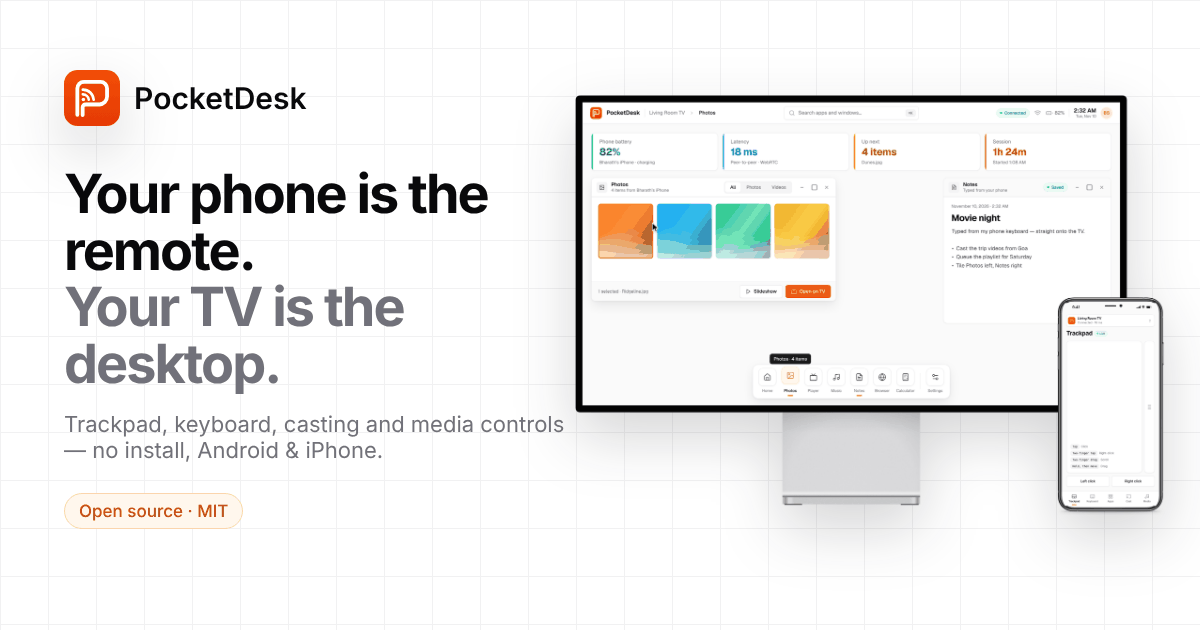
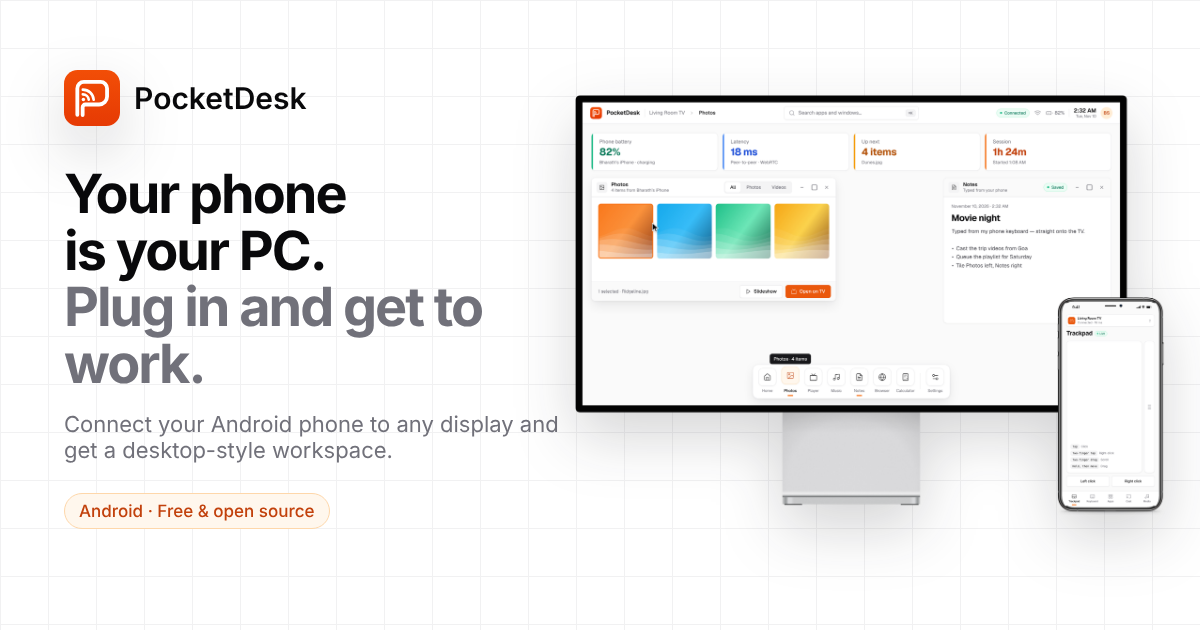
Reposition: turn your phone into a PC

diff --git a/public/index.html b/public/index.html
@@ -3,11 +3,11 @@
 <head>
 <meta charset="utf-8">
 <meta name="viewport" content="width=device-width, initial-scale=1">
-<title>PocketDesk — your phone is the remote, your TV is the desktop</title>
-<meta name="description" content="PocketDesk turns any TV with a web browser into a desktop you drive from your phone — trackpad, keyboard, casting and media controls. Open source, no install.">
+<title>PocketDesk — turn your phone into a PC</title>
+<meta name="description" content="PocketDesk turns your Android phone into a desktop-style workspace. Connect it to any monitor or TV and start working, with your phone as the trackpad and keyboard. Free and open source.">
 <meta name="theme-color" content="#ffffff">
-<meta property="og:title" content="PocketDesk — your phone is the remote, your TV is the desktop">
-<meta property="og:description" content="Turn any TV into a desktop you drive from your phone. Open source, no install, Android & iPhone.">
+<meta property="og:title" content="PocketDesk — turn your phone into a PC">
+<meta property="og:description" content="Plug your Android phone into any display and get a desktop-style workspace. Free APK, open source.">
 <meta property="og:image" content="https://getpocketdesk.vercel.app/assets/og.png">
 <meta property="og:url" content="https://getpocketdesk.vercel.app/">
 <meta name="twitter:image" content="https://getpocketdesk.vercel.app/assets/og.png">
@@ -75,6 +75,9 @@
   details[open] summary::after { content: "–"; }
   details p { color: var(--muted-fg); margin: 10px 0 0; }
   .faq { max-width: 760px; margin-top: 32px; }
+  .wl { display: flex; align-items: center; justify-content: space-between; gap: 24px; flex-wrap: wrap; }
+  .wl h2 { margin-bottom: 8px; }
+  .wl .lede { font-size: 16px; }
   .cta-band { text-align: center; }
   .cta-band .card { padding: 48px 24px; }
   code { font: 500 14px "Geist Mono", ui-monospace, monospace; background: var(--muted); border: 1px solid var(--border); border-radius: 6px; padding: 2px 7px; }
@@ -87,40 +90,40 @@
 <nav class="top">
   <div class="wrap">
     <a class="brand" href="/"><img class="logo-img" src="icon.svg" width="34" height="34" alt="">PocketDesk</a>
-    <div class="links"><a href="#features">Features</a><a href="#how">How it works</a><a href="#faq">FAQ</a></div>
+    <div class="links"><a href="#features">Features</a><a href="#how">How it works</a><a href="#wireless">Wireless</a><a href="#faq">FAQ</a></div>
     <div class="nav-btns">
       <a class="btn btn-outline btn-sm" href="https://github.com/Bharathshiva24/pocketdesk" target="_blank" rel="noopener"><span class="ic" data-i="github"></span>GitHub</a>
-      <a class="btn btn-brand btn-sm" href="/tv">Launch PocketDesk</a>
+      <a class="btn btn-brand btn-sm" href="https://github.com/Bharathshiva24/pocketdesk/releases/latest/download/PocketDesk.apk">Download APK</a>
     </div>
   </div>
 </nav>
 
 <header class="hero">
   <div class="wrap">
-    <span class="badge"><i></i>Open source · MIT · No install</span>
-    <h1>Your phone is the remote.<br><span>Your TV is the desktop.</span></h1>
-    <p class="sub">PocketDesk turns any TV with a web browser into a desktop with windows and a dock — and your Android or iPhone into its trackpad, keyboard and casting remote.</p>
+    <span class="badge"><i></i>Android · Free &amp; open source</span>
+    <h1>Your phone is your PC.<br><span>Plug in and get to work.</span></h1>
+    <p class="sub">PocketDesk turns your Android phone into a desktop-style workspace. Connect it to a monitor or TV and get windows, a dock and a full desktop on the big screen, with your phone as the trackpad and keyboard.</p>
     <div class="ctas">
-      <a class="btn btn-brand" href="/tv"><span class="ic" data-i="tv"></span>Launch PocketDesk</a>
+      <a class="btn btn-brand" href="https://github.com/Bharathshiva24/pocketdesk/releases/latest/download/PocketDesk.apk"><span class="ic" data-i="download"></span>Download for Android</a>
       <a class="btn btn-outline" href="/demo"><span class="ic" data-i="play"></span>Try the live demo</a>
     </div>
-    <p class="note">Open <code>/tv</code> on the TV, then scan the QR code with your phone · <a class="dl" href="https://github.com/Bharathshiva24/pocketdesk/releases/latest/download/PocketDesk.apk"><span class="ic" data-i="download"></span>Download for Android</a></p>
-    <div class="shot"><picture><source srcset="assets/hero.webp" type="image/webp"><img src="assets/hero.png" width="1600" height="1138" alt="PocketDesk on a display with the phone controller beside it" fetchpriority="high" decoding="async"></picture></div>
+    <p class="note">Free APK · Android 8.0+ · Works with phones that support USB‑C video out · <a class="dl" href="#wireless">No cable? Go wireless</a></p>
+    <div class="shot"><picture><source srcset="assets/hero.webp" type="image/webp"><img src="assets/hero.png" width="1600" height="1138" alt="PocketDesk desktop on an external display, controlled from a phone" fetchpriority="high" decoding="async"></picture></div>
   </div>
 </header>
 
 <section id="features">
   <div class="wrap">
     <div class="eyebrow">Features</div>
-    <h2>A real desktop, on the biggest screen you own</h2>
-    <p class="lede">Built for the sofa: big type, a dock you can read from across the room, and controls that live in your hand.</p>
+    <h2>A desktop that fits in your pocket</h2>
+    <p class="lede">Everything you need to work on a bigger screen, powered by the phone you already carry.</p>
     <div class="grid">
-      <div class="card"><span class="ibox"><span class="ic" data-i="touchpad"></span></span><h3>Trackpad &amp; gestures</h3><p>Tap to click, two fingers to scroll or right-click, hold to drag windows around.</p></div>
-      <div class="card"><span class="ibox"><span class="ic" data-i="keyboard"></span></span><h3>Your phone’s keyboard</h3><p>Type into any field on the TV — autocorrect and dictation included.</p></div>
-      <div class="card"><span class="ibox"><span class="ic" data-i="cast"></span></span><h3>Cast photos, video &amp; music</h3><p>Pick files from your library and they open on the TV with play, seek and volume control.</p></div>
-      <div class="card"><span class="ibox"><span class="ic" data-i="tile"></span></span><h3>Windows, dock &amp; snapping</h3><p>Move, resize, snap left/right, tile everything, and switch apps from the dock.</p></div>
-      <div class="card"><span class="ibox"><span class="ic" data-i="link"></span></span><h3>Peer-to-peer</h3><p>Phone and TV talk directly over WebRTC. Your files go device to device, not through a server.</p></div>
-      <div class="card"><span class="ibox"><span class="ic" data-i="phone"></span></span><h3>Android &amp; iPhone</h3><p>Nothing to install on either side. Add it to your home screen for an app-like feel.</p></div>
+      <div class="card"><span class="ibox"><span class="ic" data-i="monitor"></span></span><h3>Connect to any display</h3><p>Monitor, TV or projector over USB‑C or HDMI. No smart TV, Wi‑Fi or internet needed.</p></div>
+      <div class="card"><span class="ibox"><span class="ic" data-i="appWindow"></span></span><h3>Desktop-style interface</h3><p>Resizable windows, a dock, snapping and tiling, and a quick launcher, sized for a big screen.</p></div>
+      <div class="card"><span class="ibox"><span class="ic" data-i="touchpad"></span></span><h3>Your phone is the trackpad</h3><p>Tap to click, two fingers to scroll or right-click, hold to drag windows around.</p></div>
+      <div class="card"><span class="ibox"><span class="ic" data-i="keyboard"></span></span><h3>…and the keyboard</h3><p>Type into any field on the desktop, with your phone’s autocorrect and dictation.</p></div>
+      <div class="card"><span class="ibox"><span class="ic" data-i="grid"></span></span><h3>Ready to work</h3><p>Built-in Notes, Browser, Photos, Player, Music and Calculator, open the moment you connect.</p></div>
+      <div class="card"><span class="ibox"><span class="ic" data-i="phone"></span></span><h3>Android first</h3><p>A free, open-source APK for Android today. iPhone support is in progress.</p></div>
     </div>
   </div>
 </section>
@@ -128,24 +131,36 @@
 <section id="how" class="alt">
   <div class="wrap">
     <div class="eyebrow">How it works</div>
-    <h2>Connected in about ten seconds</h2>
+    <h2>Ready to work in three steps</h2>
     <div class="grid steps">
-      <div class="card"><span class="step-n">1</span><h3>Open PocketDesk on the TV</h3><p>Use the TV’s web browser (Samsung, LG, Android TV, Fire TV) or any computer plugged in over HDMI. Go to <code>/tv</code>.</p></div>
-      <div class="card"><span class="step-n">2</span><h3>Scan the QR code</h3><p>Point your phone camera at the code on the TV, or open <code>/phone</code> and type the 6-digit code.</p></div>
-      <div class="card"><span class="step-n">3</span><h3>Drive the desktop</h3><p>Use the trackpad, type, open apps from the dock and cast your photos and videos.</p></div>
+      <div class="card"><span class="step-n">1</span><h3>Install the app</h3><p>Download <code>PocketDesk.apk</code> on your Android phone and open it. Allow “Install unknown apps” when asked.</p></div>
+      <div class="card"><span class="step-n">2</span><h3>Connect a display</h3><p>Plug your phone into a monitor or TV with a USB‑C to HDMI cable or adapter, and choose that input.</p></div>
+      <div class="card"><span class="step-n">3</span><h3>Start working</h3><p>The desktop appears on the big screen and your phone becomes its trackpad and keyboard.</p></div>
     </div>
   </div>
 </section>
 
-<section id="faq">
+<section id="wireless">
+  <div class="wrap wl">
+    <div>
+      <div class="eyebrow">Also works wirelessly</div>
+      <h2>No cable? Use any smart TV or computer</h2>
+      <p class="lede">Open PocketDesk in the display’s web browser and scan the QR code with your phone. Works with Android and iPhone, no install needed.</p>
+    </div>
+    <a class="btn btn-outline" href="/tv"><span class="ic" data-i="wifi"></span>Open wireless mode</a>
+  </div>
+</section>
+
+<section id="faq" class="alt">
   <div class="wrap">
     <div class="eyebrow">FAQ</div>
     <h2>Good to know</h2>
     <div class="faq">
-      <details open><summary>Can I run my phone’s own apps on the TV?</summary><p>Not with a web app. PocketDesk runs its own desktop apps on the TV and uses your phone as the controller. Mirroring Android apps would need a native Android app; iOS doesn’t allow it for third-party apps.</p></details>
-      <details><summary>Do my phone and TV need to be on the same Wi‑Fi?</summary><p>No — they only need internet access to find each other. On the same network the connection is direct and fastest. A few strict corporate or mobile networks block peer-to-peer traffic; the self-hosted server mode works there.</p></details>
-      <details><summary>Where do my photos go?</summary><p>Straight from your phone to the TV over an encrypted WebRTC data channel. They live only in the TV’s browser memory and disappear when you close the page.</p></details>
-      <details><summary>Can I host it myself?</summary><p>Yes. Run <code>npm start</code> for a LAN server, or deploy the static <code>public/</code> folder anywhere. See the README on GitHub.</p></details>
+      <details open><summary>Which phones work with a cable?</summary><p>Phones that send video out over USB‑C (DisplayPort Alt Mode), such as many Samsung Galaxy S, Note and Tab models, Pixel 8 and later, and recent Motorola and OnePlus flagships. If your phone can’t, use wireless mode instead. See the <a href="https://github.com/Bharathshiva24/pocketdesk/blob/main/docs/WIRED.md#compatibility">compatibility list</a>.</p></details>
+      <details><summary>Does it need internet?</summary><p>Not with a cable. Wired mode runs entirely on your phone and works offline. Wireless mode needs both devices online to find each other.</p></details>
+      <details><summary>Can I use my phone’s own apps on the desktop?</summary><p>Not yet. PocketDesk comes with its own desktop apps (Notes, Browser, Photos, Player, Music, Calculator). Your other phone apps keep running on the phone as usual.</p></details>
+      <details><summary>Is there an iPhone version?</summary><p>Wireless mode already works with iPhone. A native iPhone app for wired displays is in progress.</p></details>
+      <details><summary>Is it really free?</summary><p>Yes. PocketDesk is open source under the MIT licence. The code, including the Android app, is on GitHub.</p></details>
     </div>
   </div>
 </section>
@@ -153,15 +168,15 @@
 <section class="cta-band">
   <div class="wrap">
     <div class="card">
-      <h2>Turn on the big screen</h2>
-      <p class="lede" style="margin:0 auto 26px">Open PocketDesk on your TV and pair your phone. It’s free and open source.</p>
-      <div class="ctas"><a class="btn btn-brand" href="/tv">Launch PocketDesk</a><a class="btn btn-outline" href="https://github.com/Bharathshiva24/pocketdesk" target="_blank" rel="noopener"><span class="ic" data-i="github"></span>Star on GitHub</a></div>
+      <h2>Turn your phone into a PC</h2>
+      <p class="lede" style="margin:0 auto 26px">Download the free Android app, plug into a display and start working.</p>
+      <div class="ctas"><a class="btn btn-brand" href="https://github.com/Bharathshiva24/pocketdesk/releases/latest/download/PocketDesk.apk"><span class="ic" data-i="download"></span>Download for Android</a><a class="btn btn-outline" href="https://github.com/Bharathshiva24/pocketdesk" target="_blank" rel="noopener"><span class="ic" data-i="github"></span>Star on GitHub</a></div>
     </div>
   </div>
 </section>
 
 <footer>
-  <div class="wrap"><span>© 2026 PocketDesk · MIT licence</span><span>Built with web standards · <a href="https://github.com/Bharathshiva24/pocketdesk">Source on GitHub</a></span></div>
+  <div class="wrap"><span>© 2026 PocketDesk · MIT licence</span><span>Android first · <a href="https://github.com/Bharathshiva24/pocketdesk">Source on GitHub</a></span></div>
 </footer>
 <script src="js/icons.js"></script>
 <script>document.querySelectorAll('[data-i]').forEach((el) => { el.innerHTML = PocketDeskIcons[el.dataset.i] || ''; });</script>

diff --git a/README.md b/README.md
@@ -4,12 +4,12 @@
 
 # PocketDesk
 
-**Your phone is the remote. Your TV is the desktop.**
+**Your phone is your PC. Plug in and get to work.**
 
-PocketDesk turns any TV with a web browser into a desktop with windows and a dock.
-Your Android phone or iPhone becomes its trackpad, keyboard and casting remote. Nothing to install.
+PocketDesk turns your Android phone into a desktop-style workspace.
+Connect it to any monitor or TV and get windows, a dock and a full desktop on the big screen, with your phone as the trackpad and keyboard.
 
-[**Live app**](https://getpocketdesk.vercel.app) · [**Download for Android**](https://github.com/Bharathshiva24/pocketdesk/releases/latest/download/PocketDesk.apk) · [Live demo](https://getpocketdesk.vercel.app/demo) · [Report a bug](https://github.com/Bharathshiva24/pocketdesk/issues)
+[**Download for Android**](https://github.com/Bharathshiva24/pocketdesk/releases/latest/download/PocketDesk.apk) · [Website](https://getpocketdesk.vercel.app) · [Live demo](https://getpocketdesk.vercel.app/demo) · [Report a bug](https://github.com/Bharathshiva24/pocketdesk/issues)
 
 [![License: MIT](https://img.shields.io/badge/License-MIT-orange.svg)](LICENSE)
 ![No build step](https://img.shields.io/badge/build-none-lightgrey)
@@ -22,24 +22,29 @@ Your Android phone or iPhone becomes its trackpad, keyboard and casting remote. 
 
 ## Features
 
-- **Desktop on the TV.** Windows you can move, resize and snap left/right, tile everything at once, and switch between from a dock. There's also a ⌘K-style launcher, right-click menus and status cards for battery, latency, queue and session time.
-- **Trackpad and gestures.** Tap to click, two fingers to right-click or scroll, hold then drag to move windows.
-- **Your phone's keyboard.** Type into any field on the TV, with autocorrect and dictation included.
-- **Cast photos, video and music.** Files go straight from your phone to the TV, with play/pause, seek, ±10 s, next/previous and volume control.
-- **Built-in apps.** Photos, Player, Music, Notes, Browser, Calculator and Settings.
-- **Peer-to-peer.** Phone and TV talk directly over WebRTC, so your files never touch a server.
-- **Works everywhere.** Samsung (Tizen), LG (webOS), Android/Google TV, Fire TV, or any computer plugged into the TV over HDMI. The TV remote's arrow keys move the pointer and OK clicks.
-- **Any TV, even offline.** With the Android or iOS app, plug your phone into any HDMI screen (USB‑C → HDMI, or Lightning AV adapter) and the desktop appears on it. No smart TV, no Wi‑Fi, no internet needed. See [Wired mode](docs/WIRED.md).
+- **Mobile to desktop.** Your phone runs a desktop-style workspace on the big screen: windows you can move, resize, snap and tile, a dock, a ⌘K-style launcher and right-click menus.
+- **Connect to any display.** Plug into a monitor, TV or projector over USB‑C or HDMI. No smart TV, Wi‑Fi or internet needed. See [Wired mode](docs/WIRED.md).
+- **Your phone is the trackpad and keyboard.** Tap to click, two fingers to right-click or scroll, hold then drag to move windows, and type with your phone's keyboard, including autocorrect and dictation.
+- **Ready to work.** Built-in Notes, Browser, Photos, Player, Music, Calculator and Settings.
+- **Android first.** A free APK for Android today. iPhone support is in progress.
+- **Wireless too.** No cable? Open the web version on any smart TV or computer and pair your phone (Android or iPhone) with a QR code. Phone and display talk directly over WebRTC.
 
 ## Quick start
 
-### Use the hosted version
+### Android (recommended)
 
-1. On the TV, open **getpocketdesk.vercel.app/tv** in its web browser.
+1. [Download **PocketDesk.apk**](https://github.com/Bharathshiva24/pocketdesk/releases/latest/download/PocketDesk.apk) on your Android phone and open it. Allow "Install unknown apps" when asked.
+2. Connect your phone to a monitor or TV with a USB‑C → HDMI cable or adapter, and choose that input on the display.
+3. The desktop appears on the big screen. Use your phone as the trackpad and keyboard.
+
+Your phone needs USB‑C video out (DisplayPort Alt Mode). Check the [compatibility list](docs/WIRED.md#compatibility), or use wireless mode below.
+
+### Wireless (any smart TV or computer)
+
+1. On the display, open **getpocketdesk.vercel.app/tv** in its web browser.
 2. On your phone, scan the QR code with the camera, or open **getpocketdesk.vercel.app/phone** and enter the 6-digit code.
-3. That's it. Add the phone page to your home screen for an app-like experience.
 
-> Want to look around first? The [live demo](https://getpocketdesk.vercel.app/demo) puts a TV and a phone side by side in one browser window.
+> Want to look around first? The [live demo](https://getpocketdesk.vercel.app/demo) puts a display and a phone side by side in one browser window.
 
 ### Run it yourself
 
@@ -51,10 +56,6 @@ npm start
 ```
 
 The server prints a LAN address such as `http://192.168.1.20:8080`. Open `/tv` on the TV and scan the QR code. In this mode, pairing and input go through your own server over WebSocket, and media streams from it with seeking support. Nothing leaves your network.
-
-### Wired: any TV or monitor, no internet
-
-Install the native app ([download the Android APK](https://github.com/Bharathshiva24/pocketdesk/releases/latest/download/PocketDesk.apk), or build it from [apps/android](apps/android) · [iOS](apps/ios)), connect your phone to the TV with a USB‑C → HDMI cable, and choose that HDMI input on the TV. The desktop runs from your phone and appears on the big screen, while your phone stays the trackpad. Build steps and phone compatibility: **[docs/WIRED.md](docs/WIRED.md)**.
 
 ### Deploy your own copy
 
@@ -112,8 +113,8 @@ docs/images/       Screenshots
 
 ## Limitations
 
-- **Your phone's own apps.** PocketDesk runs its own apps on the TV and uses your phone as the controller; it doesn't put other phone apps (Instagram, YouTube…) into its windows.
-- **Wired mode needs video out.** Your phone must support video over USB‑C (or use Apple's Lightning AV adapter). See the [compatibility table](docs/WIRED.md#compatibility).
+- **Your phone's own apps.** PocketDesk comes with its own desktop apps; it doesn't put other phone apps (Instagram, YouTube…) into its windows yet.
+- **Wired mode needs video out.** Your phone must support video over USB‑C (DisplayPort Alt Mode). See the [compatibility table](docs/WIRED.md#compatibility).
 - **Restrictive networks.** A few corporate or mobile networks block peer-to-peer connections. Use the self-hosted mode there.
 - **Embedded websites.** Many sites refuse to be shown inside another page, so they'll appear blank in the Browser app.
 - **Secure context features.** Screen wake lock and battery level need HTTPS. They work on the hosted version, and quietly switch off on a plain-HTTP LAN server.

diff --git a/CHANGELOG.md b/CHANGELOG.md
@@ -2,6 +2,8 @@
 
 ## Unreleased
 
+- New positioning: PocketDesk turns your Android phone into a PC-like desktop on any external display. Wired (USB‑C / HDMI) first, wireless as a secondary option
+- Landing page, README and link preview rewritten; primary call to action is now the Android APK download
 - Casting: videos the TV browser can't decode (usually HEVC / H.265) now show a clear message on the TV and a fix-it tip on the phone, instead of a black screen
 - Casting: files with no MIME type are detected by extension (e.g. .mkv, .mov)
 
